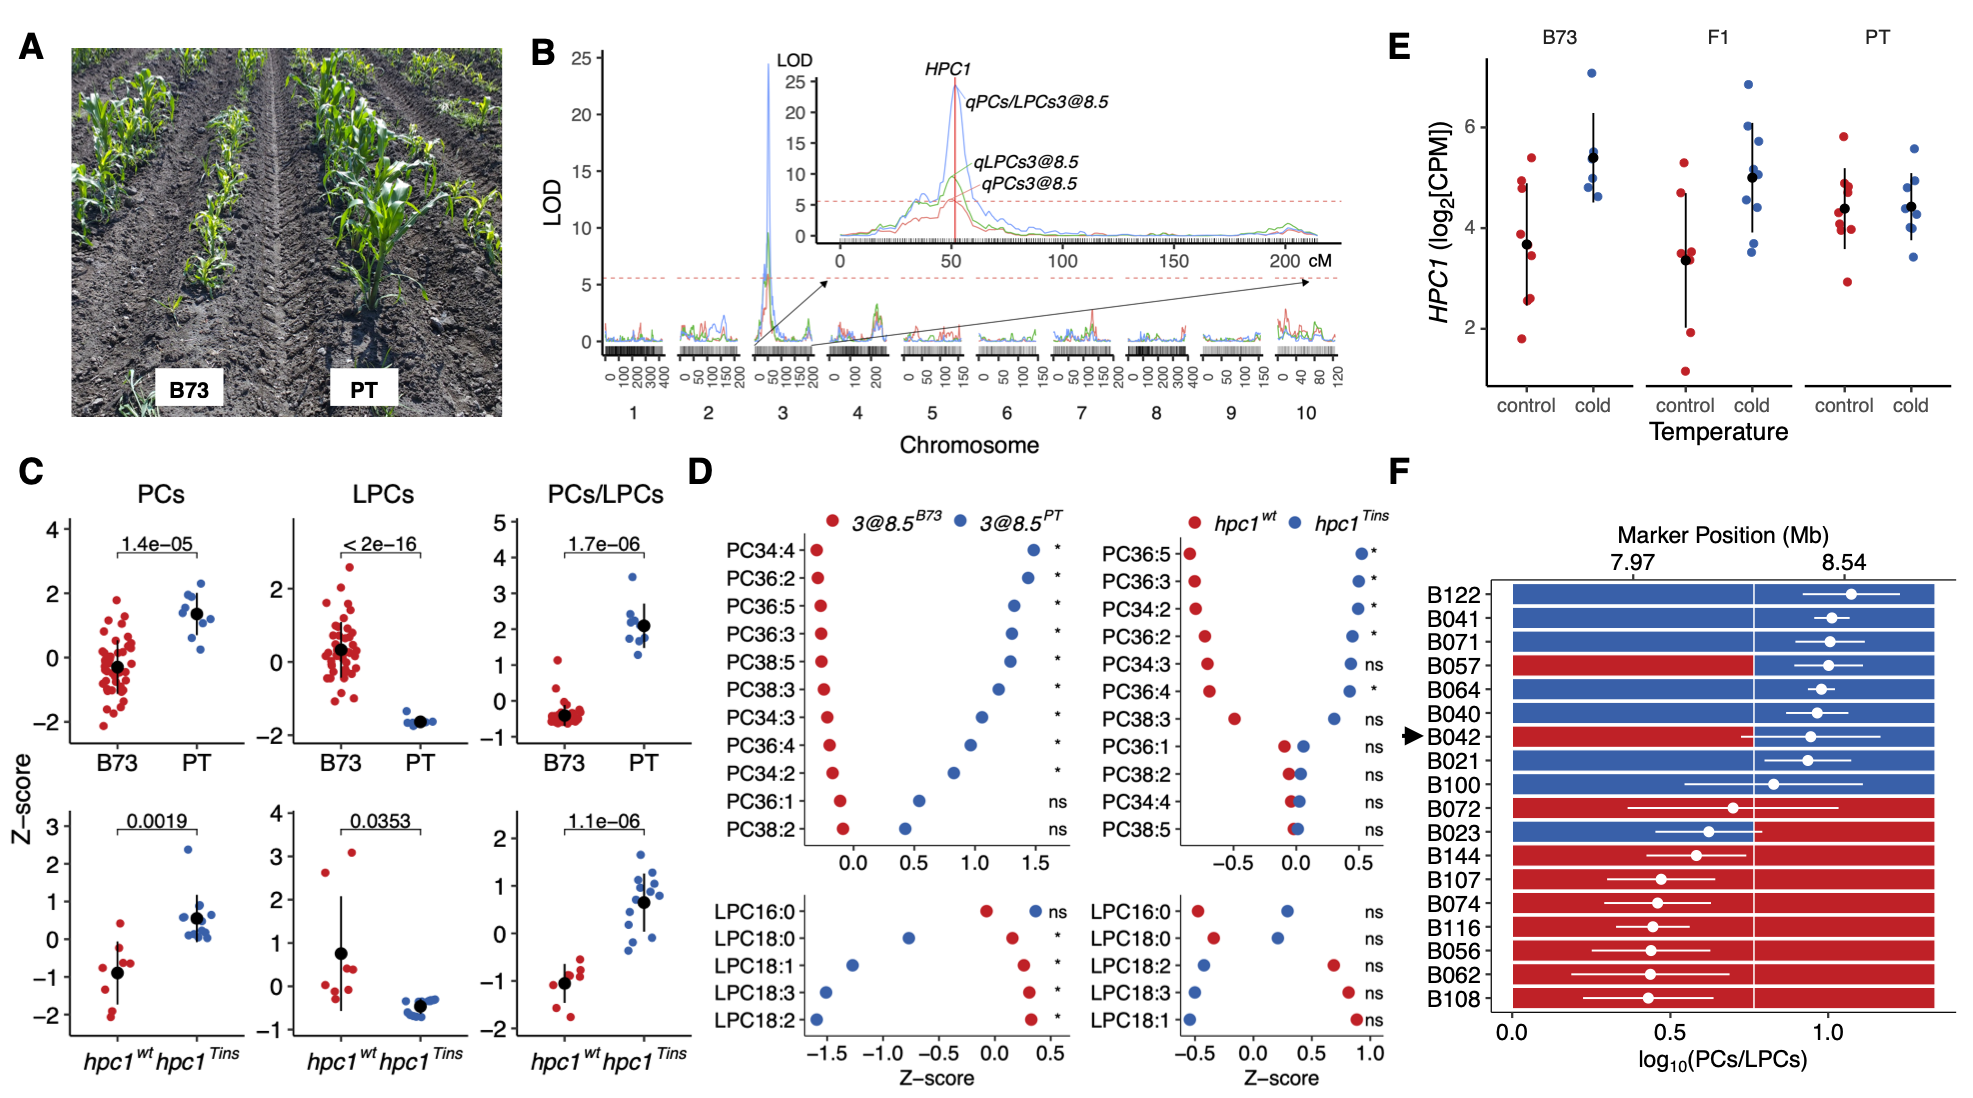
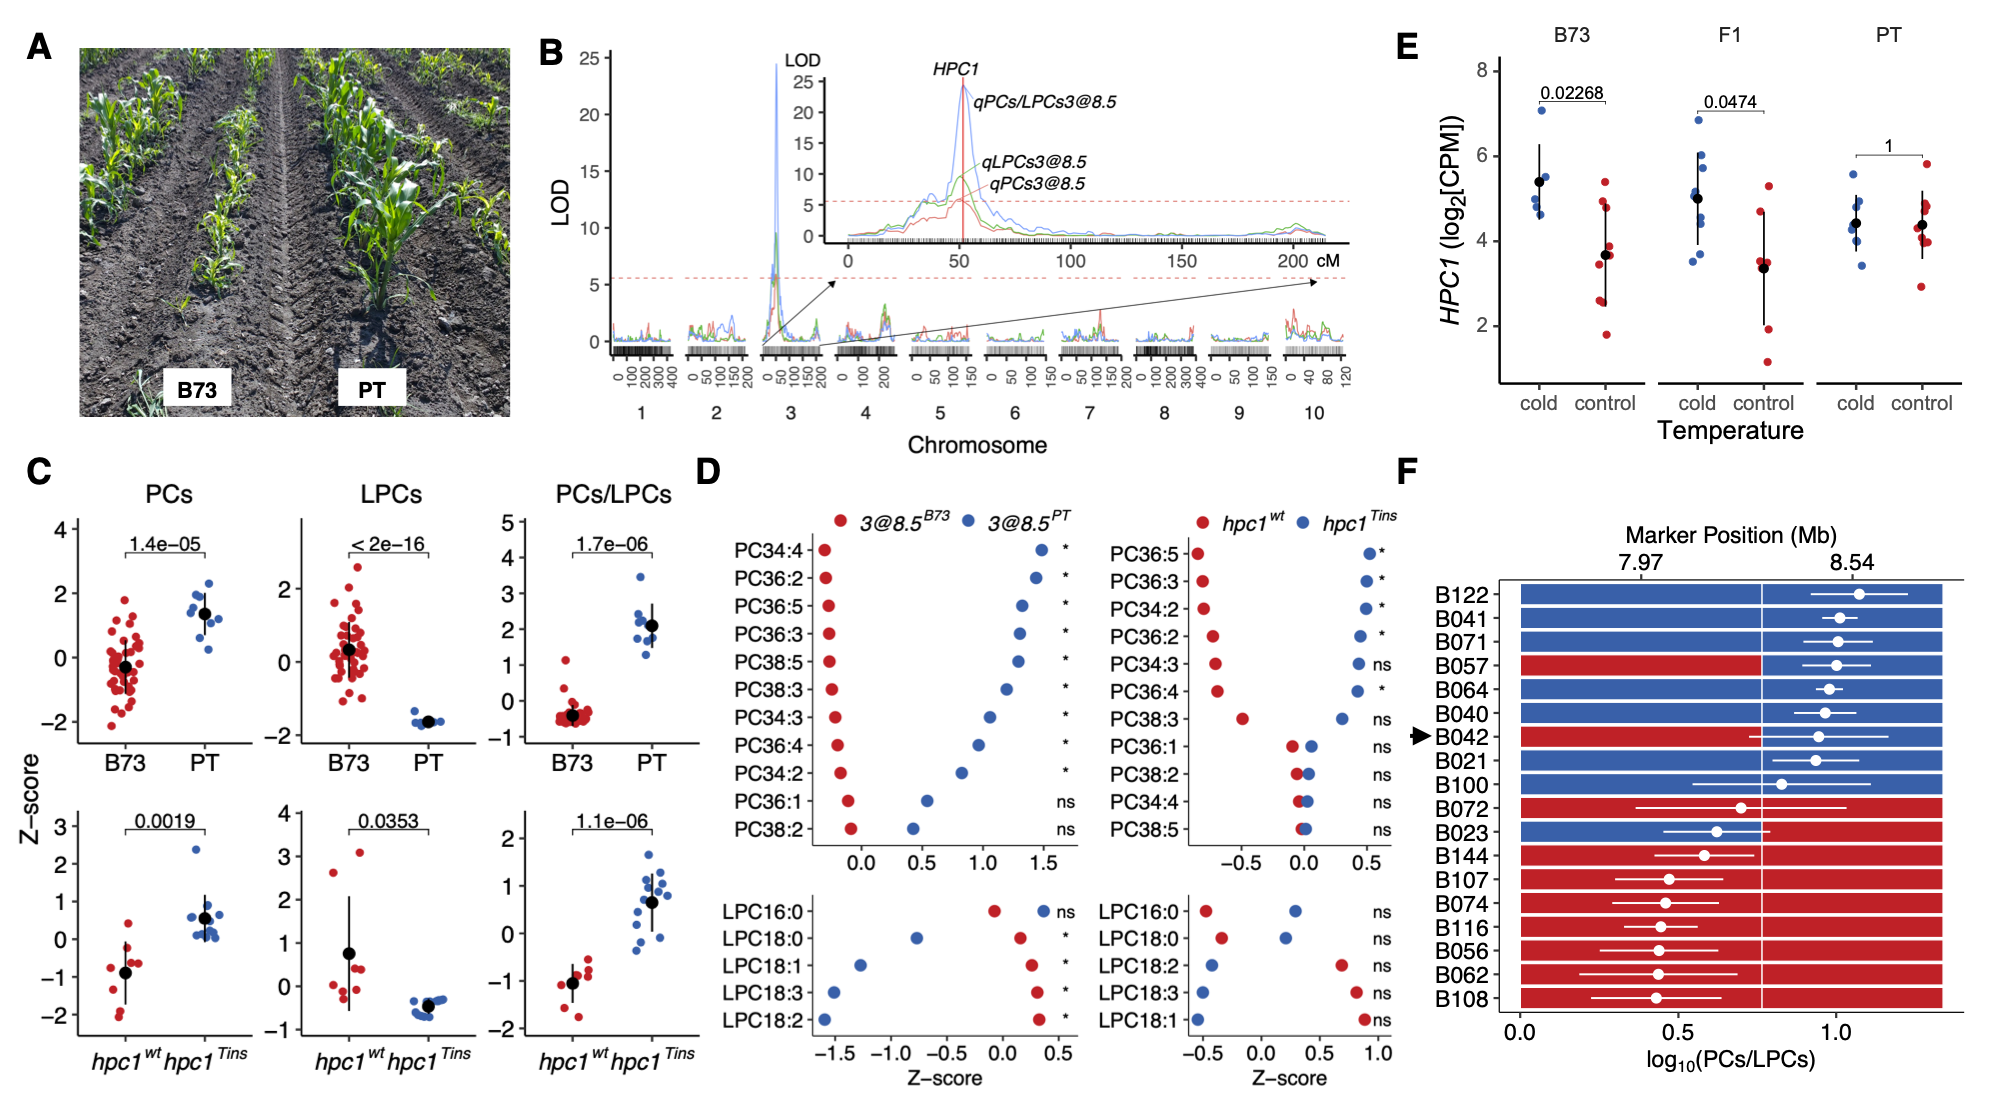
Updates from Overleaf

diff --git a/main.tex b/main.tex
@@ -35,7 +35,7 @@
 \title{Teosinte \textit{mexicana} introgression modulates phosphatidylcholine levels and maize flowering time}
 
 
-\author[a,1]{Allison C Barnes}
+\author[a,1]{Allison C. Barnes}
 \author[a,b,1]{Fausto Rodríguez-Zapata}
 \author[b,1]{Karla A Blöcher-Juárez}
 \author[c]{Dan Gates}
@@ -48,6 +48,7 @@
 \author[a]{Heli Kavi}
 \author[a]{Hannah Pil}
 \author[a]{Ruthie Stokes}
+\author[k]{Kevan Knizner}
 \author[b]{Rocío Aguilar-Rangel}
 \author[g]{Edgar Demesa-Arevalo}
 \author[g]{Tara Skopelitis}
@@ -56,6 +57,7 @@
 \author[a, h]{Peter Thompson}
 \author[h]{Yu-Chun Chiu}
 \author[g]{David Jackson}
+\author[k, h]{David C. Muddiman}
 \author[i]{Oliver Fiehn}
 \author[f]{Daniel Runcie}
 \author[e]{Edward S Buckler}
@@ -74,6 +76,7 @@
 \affil[h]{Molecular Education, Technology and Research Innovation Center, North Carolina State University, Raleigh, NC}
 \affil[i]{West Coast Metabolomics Center, University of California, Davis, CA, USA}
 \affil[j]{Department of Plant Science, The Pennsylvania State University, PA, USA}
+\affil[k]{Department of Chemistry, North Carolina State University, Raleigh, NC}
 
 \keywords{phospholipid metabolism; maize genetics; highland adaptation; convergent evolution}
 
@@ -85,23 +88,19 @@
 %% last names of both authors if there are two authors;
 % \runningauthor{FirstAuthorLastname and SecondAuthorLastname}
 %% last name of the first author followed by et al, if more than two authors.
-\runningauthor{Rodríguez-Zapata, Barnes, Blöcher-Juárez \textit{et al.}}
+\runningauthor{Barnes, Rodríguez-Zapata, Blöcher-Juárez \textit{et al.}}
 
 \begin{abstract}
 \section{Abstract}
 After domestication from lowland teosinte \textit{parviglumis} (\textit{Zea mays} ssp.\textit{parviglumis}) in the warm Mexican southwest, maize (\textit{Zea mays} ssp. \textit{mays}) colonized the highlands of México and South America. 
 In the highlands, maize was exposed to lower temperatures that imposed strong selection on flowering time.
 Phospholipids are important metabolites in plant responses to low-temperature, low phosphorus availability and have also been suggested to influence flowering time.
-
 Here, we combined linkage mapping analysis with genome scans to identify \textit{High PhosphatidylCholine 1} (\textit{HPC1}), a gene which encodes a phospholipase A1 enzyme, as a major driver of phospholipid variation in highland maize. 
 Common garden experiments demonstrated strong genotype-by-environment interactions associated with variation at \textit{HPC1}, with the highland \textit{HPC1} allele leading to higher fitness in highlands, possibly by hastening flowering. 
-
 The highland maize \textit{HPC1} variant results in impaired function of the encoded protein due to a polymorphism in a highly conserved sequence. 
 A meta-analysis indicated a strong association between the identity of the amino acid at this position and optimal growth in prokaryotes. 
 Mutagenesis of \textit{HPC1} via genome editing validated its role in regulating phospholipid metabolism. 
-
 Finally, we showed that the highland \textit{HPC1} allele entered cultivated maize by introgression from the wild highland teosinte \textit{Zea mays} ssp. \textit{mexicana} and has been maintained in maize breeding lines from Northern US, Canada and Europe.
-
 Thus, \textit{HPC1} introgressed from teosinte \textit{mexicana} underlies a large metabolic QTL that modulates  phosphatidylcholine levels and has an adaptive effect at least in part via induction of early flowering time.
 
 \end{abstract}
@@ -119,10 +118,11 @@ Thus, \textit{HPC1} introgressed from teosinte \textit{mexicana} underlies a lar
 \vspace{-33pt}% Only used for adjusting extra space in the left column of the first page
 
 \subsection{Significance Statement}
-Despite more than a century of genetic research, our understanding of the genetic basis of the astounding capacity of maize to adapt to new environments is still in its infancy. 
+Despite more than a century of genetic research, our understanding of the genetic basis of the astounding capacity of maize to adapt to new environments is still in its infancy.
 %Recent work in many crops has pointed to a potentially important role for introgression in underpinning adaptation, but clear examples of adaptive loci arising via this process are lacking. 
 %Here, we used an interdisciplinary analysis of the genetic basis of phospholipid metabolism and its role in maize local adaptation to high elevations.
-We elucidate the evolutionary history of a novel, major metabolic QTL, that we mapped down to a single gene \textit{HPC1}, which  is the result of a highland teosinte mexicana introgression in maize, leads to high phosphatidylcholine levels, and improves fitness via induction of early flowering. 
+Here, we elucidate the evolutionary history of a novel, major metabolic QTL that we mapped down to a single gene, \textit{HPC1}.
+Alterations in highland \textit{HPC1} are the result of a teosinte mexicana introgression in maize, lead to high phosphatidylcholine levels, and improve fitness via induction of early flowering. 
 
 \section{Introduction}
 %How do organisms adapt to high elevations
@@ -220,8 +220,9 @@ Lower panels zoom in on areas of outlier SNPs that co-localize with the physical
 \textbf{A)} PT and B73 plants growing in the highland Metepec field. 
 \textbf{B)} QTL analysis using data collected from plants growing in the highland and lowland fields for PC and LPC levels and the PC/LPC ratio identified overlapping major QTLs at 8.5 Mb on chromosome 3. 
 The QTL peaks coincide with the physical location of \textit{HPC1}. 
-\textbf{C)} Effect sizes for PCs, LPCs and PC/LPCs (z-score normalized) in RILs at 8.5 Mb on chromosome 3 that are either homozygous for B73 or PT (top row) and CRISPR-Cas9 \textit{hpc1\textsuperscript{CR}} mutant and wild-type plants (bottom row), \textit{t}-test \textit{p}-values.        
-\textbf{D)} Effect sizes for individual PC and LPC species (z-score normalized) in RILs at 8.5 Mb on chromosome 3 (top row) and CRISPR/Cas9 \textit{hpc1\textsuperscript{CR}} mutant.
+\textbf{C)} Effect sizes for PCs, LPCs and PC/LPCs (z-score normalized) in RILs at 8.5 Mb on chromosome 3 that are either homozygous for B73 or PT (top row) and CRISPR-Cas9 \textit{hpc1\textsuperscript{Tins}} mutant and wild-type plants (bottom row), \textit{t}-test \textit{p}-values.        
+\textbf{D)} Effect sizes for individual PC and LPC species (z-score normalized) in RILs at 8.5 Mb on chromosome 3 (left) and CRISPR/Cas9 (right),
+\textit{hpc1\textsuperscript{Tins}} mutant. \textit{*} Significant difference at $p < 0.05$ (t-test , Benjamini \& Hochberg corrected), \textit{ns} not significant.
 \textbf{E)} \textit{HPC1} expression analysis in B73, PT and their F\textsubscript{1} hybrids grown in standard and cold temperatures in a growth chamber, positive effects in black, negative effects in grey, \textit{p}-values from Wilcox ranked paired test.
 \textbf{F)}PC/LPC ratio for several RILs. RIL B042 (indicated by the black arrow) bears a recombination event 500 bp upstream of the \textit{HPC1} translation start codon.
 In panels C-F, phenotypes associated with the B73 haplotype are in red; the equivalent values for the PT haplotype are in blue.}
@@ -245,7 +246,7 @@ The pathways related to 'phospholipid remodeling'  and 'PC acyl editing' had sig
 For example, \textit{ZmLPCAT1} is a selected gene  in the 'phospholipid remodelling' and 'PC acyl editing' pathways with shared outlier SNPs in the coding sequence region across all four populations (Figure \ref{Fig2}E, Sup. File 2). 
 HPC1 performs the reverse reaction of ZmLPCAT1 and is part of the 'PC acyl editing', 'triacylglycerol degradation' and 'phospholipases' pathways. 
 \textit{HPC1} displayed particularly high PBE values in the Mexican Highland population and contained SNPs that are unique to each population and others that are shared across populations (Figure \ref{Fig2}E). 
-Together, we showed here using two independent datasets that pathways involved in phospholipid remodelling and in particular two genes (\textit{HPC1} and \textit{ZmLPCAT1}) controlling the PC/LPC ratio show strong selection signals in highland maize.
+Together, we showed here, using two independent datasets, that pathways involved in phospholipid remodelling and, in particular two genes (\textit{HPC1} and \textit{ZmLPCAT1}) controlling the PC/LPC ratio, show strong selection signals in highland maize.
 
 \begin{figure}[!ht]
 \begin{center}
@@ -334,10 +335,14 @@ Patterns in the \textit{hpc1\textsuperscript{CR}} plants
 %recapitulated the effects 
 correspond to those seen for the \textit{PT} allele in the RILs (Figure \ref{Fig3} C-D bottom panels, Supplemental Figure), further confirming that the \textit{HPC1-PT} allele impairs HPC1 function and thus underlies the QTL on chromosome 3 at around 8.5 Mb. 
 
+Lastly, we generated cell-free protein of both the B73 and PT versions of HPC1 and incubated them with various phospholipid substrates. 
+We measured the amount of phospholipid substrate and lyso-phospholipid product for each compound. 
+This data confirmed that both versions of HPC1 have PLA1 activity and suggested that HPC1-B73 may have higher activity on substrates like PC36:4 that show stark differences in abundance between highland and lowland lines, as well as hpc1\textsuperscript{CR} lines.
+
 Together, these data show that \textit{HPC1} underlies a major metabolic QTL explaining PC/LPC ratio. A mutation affecting the enzymatic activity of its encoded protein probably leads to impaired function in the highland PT allele.  
 
 \subsection{\textit{HPC1} shows strong elevation-dependent antagonistic pleiotropy in Mexican landrace fitness phenotypes} 
-We re-analyzed phenotypic data from a previously reported F1 association mapping panel \cite{Romero_Navarro2017-cn} \cite{Gates2019-xu}, by fitting a model to estimate the effect stemming from variation at \textit{HPC1-PT} on the relationship between fitness trait and elevation \cite{Runcie2019-Gr}. 
+We re-analyzed phenotypic data from a previously reported F1 association mapping panel \cite{Romero_Navarro2017-cn, Gates2019-xu}, by fitting a model to estimate the effect stemming from variation at \textit{HPC1-PT} on the relationship between fitness trait and elevation \cite{Runcie2019-Gr}. 
 We determined that variation at \textit{HPC1} significantly affected G x E interactions for several fitness traits (Figure \ref{Fig4}). 
 The effect of \textit{HPC1} on flowering time showed antagonistic pleiotropy between highland and lowland environments (Figure \ref{Fig4}). 
 The highland \textit{HPC1-PT} allele was associated with delayed flowering in lowland environments (an increase of around one day in days to anthesis (DTA)  and 0.25 day for the  anthesis to silking interval (ASI)), but accelerated flowering at high elevation (with a decrease of DTA and ASI of one and 0.25 day, respectively) (Figure \ref{Fig4}).
@@ -643,6 +648,34 @@ Plants were genotyped using forward primer CAGTTCTCATCCCATGCACG and reverse prim
 Cas9 positivity was tested for using 0.05\% glufosinate ammonium contained in Liberty herbicide or by PCR genotyping. 
 \textit{hpc1\textsuperscript{CR}} T2 plants grown in Raleigh, NC under long day conditions were used for flowering time and lipid analysis.
 Wild-type plants from the same segregating families were used for analysis.
+
+\textbf{Cell-free protein production and substrate analysis}
+HPC1-B73 and HPC1-PT were synthesized without the chloroplast transit peptide and codon optimized for expression in wheat. 
+Protein was produced using the WEPRO7240 Kit from CellFree Sciences (Yokohama, Japan).
+Briefly, RNA was generated from the DNA templates using reverse transcription. 
+Cooled RNA reactions were then mixed with creatine kiinase and WEPRO 7240 extract. 
+This mixture was layered with translation buffer and incubated for 20 hours at 15\textdegree C.
+The bilayer was mixed and protein snap-frozen in liquid nitrogen before storage at -80 \textdegree C.
+Protein was incubated with various phospholipids for one hour in a buffer of 250mM TRIS-HCl, 0.7M NaCl, and 10mM CaCl\textsubcript{2}, pH 7.4.
+
+\textbf{IR-MALDESI MS Analysis}
+LC-MS grade acetonitrile, water, and formic acid for the electrospray solvent and microscope slides were purchased from Fisher Scientific (Nazareth, PA, USA). 
+The IR-MALDESI-MS platform has been described previously \cite{Caleb_Bagley2021-eh, Bokhart2016-he}. 
+A 2970 nm laser (JGMA, Burlington, MA, USA) desorbed neutral molecules from the sample with a single burst of 10 pulses fired at 10 kHz (1.2 mJ/burst). 
+An orthogonal electrospray plume consisting of 60:40 (v/v) acetonitrile/water. 
+The electrospray flow rate was fixed at 2.0 µL/min and a 3600 kV potential was applied to the emitter tip. 
+IR-MALDESI was coupled to an Orbitrap Exploris\textsuperscript{TM} 240 mass spectrometer (Thermo Fisher Scientific, Bremen, Germany) for high resolution, accurate mass analysis. 
+The automatic gain control was disabled, and the ion accumulation time was fixed at 25 ms. 
+The mass spectrometer collected mass spectra in positive mode over m/z 175 – 1000. 
+The multi-injection RF threshold fixed at 6 to inject ions over the entire m/z range of interest through the S-lens for the duration of the ion accumulation time. 
+The EASY-IC (fluoranthene, m/z 202.0782) was used for internal calibration to obtain parts per million mass measurement accuracy. 
+The mass spectrometer resolution was fixed at 240,000FWHM at m/z 200. The RF-level applied to the S-lens ion guide was fixed at 70\% for all analyses. 
+RastirX software paired with an Arduino microcontroller (Arduino, Ivrea, Italy) was used to coordinate electronic signals required for each analysis \cite{Garrard2020-nt}. 
+For each IR-MALDESI analysis, 1 µL of sample was pipetted onto a glass microscope slide and placed on the sample stage with the focal point of the laser was focused at the top of the sample droplet.
+Mass spectra were viewed in QualBrowser directly. 
+For data analysis and visualization, the raw datafiles were converted from the .RAW formal to .mzML files using MS Convert within the ProteoWizard software package \cite{Chambers2012-da}. 
+The .mzML files were then converted to .imzML files using imzMLConvertor \cite{Race2012-wl}. 
+The .imzML files were converted to .xlsx files using MSiReader v1.03c to effectively compile multiple analyses onto a single Microsoft Excel Spreadsheet \cite{Robichaud2013-ao, Bokhart2018-hs}.
 
 \textbf{Expression analysis of \textit{HPC1} in B73, PT and B73xPT F1 hybrids in conditions simulating highland environments.}
 Gene expression data were generated from leaf tissue from B73, PT and the B73xPT F1 hybrids. 
